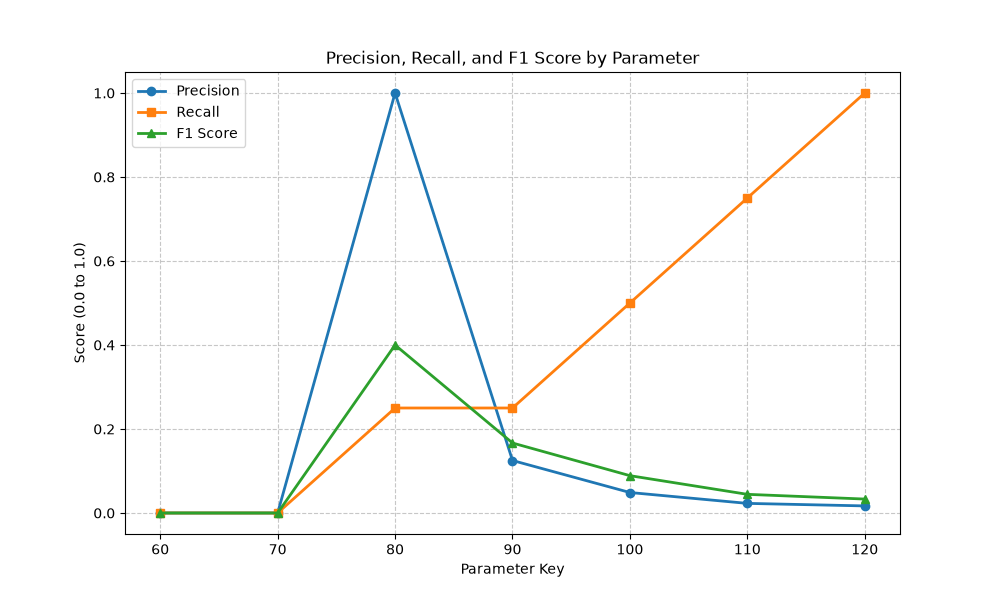
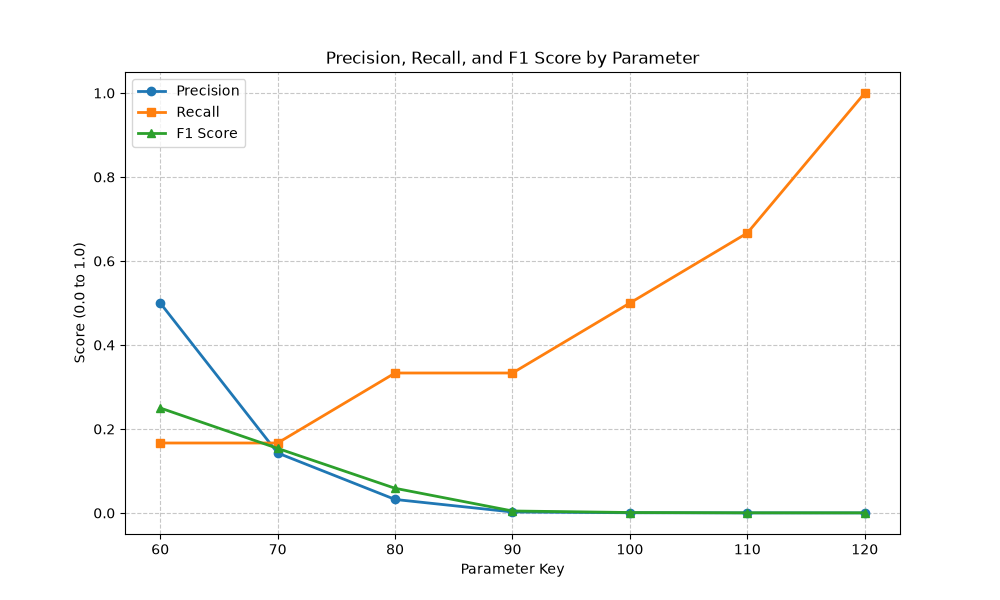
new graphs

diff --git a/filemover.py b/filemover.py
@@ -1,0 +1,41 @@
+import os
+import re
+import shutil
+
+source_dir = "data/full_data"
+dest_dir = "data/full_data_final"
+
+# Create the destination directory if it doesn't exist
+os.makedirs(dest_dir, exist_ok=True)
+
+# Update the regex pattern to match .drawio files
+pattern = re.compile(r"^(\d+)-(\d+)-.*\.drawio$")
+latest_attempts = {}
+
+# Step 1: Find the latest attempt's base name for each user
+for file in os.listdir(source_dir):
+    match = pattern.match(file)
+    if not match:
+        continue
+
+    user_id = match.group(1)
+    attempt = int(match.group(2))
+    
+    # Strip the '.drawio' extension (7 characters) to get the clean base name
+    base_name = file[:-7]
+
+    if user_id not in latest_attempts or attempt > latest_attempts[user_id][0]:
+        latest_attempts[user_id] = (attempt, base_name)
+
+# Step 2: Copy both the .drawio and .png files to the final directory
+for user_id, (attempt, base_name) in latest_attempts.items():
+    # Update the extension list to process .drawio instead of .xml
+    for ext in [".drawio", ".png"]:
+        src_path = os.path.join(source_dir, f"{base_name}{ext}")
+        dest_path = os.path.join(dest_dir, f"{base_name}{ext}")
+        
+        # Verify the file exists before copying to prevent crashes
+        if os.path.exists(src_path):
+            shutil.copy2(src_path, dest_path)
+
+print(f"Successfully transferred {len(latest_attempts)} submission pairs to {dest_dir}")

diff --git a/phash/generate_report.py b/phash/generate_report.py
@@ -70,7 +70,7 @@ def evaluate_threshold(data_path: str, index_file: str, gt_file: str, thresholds
     return results
 
 
-results = evaluate_threshold("data/union", "phash/faiss_index", "data/union/plagiarisms.txt", [x for x in range(60, 121, 10)])
+results = evaluate_threshold("data/full_data_final", "phash/faiss_index", "data/full_data_final/plagiarisms.txt", [x for x in range(60, 121, 10)])
 
 keys = sorted(results.keys())
 
@@ -112,7 +112,15 @@ plt.show()
 
 
 
-print("Using '80' as threshold, identified plagiarisms:")
-plagiarised = find_plagiarised("data/union", "phash/faiss_index", 80)
-for k, v in plagiarised.items():
-    print(f"{k:^15} <---> {v[0]:^15}")
+# print("Using '70' as threshold, identified plagiarisms:")
+# plagiarised = find_plagiarised("data/full_data_final", "phash/faiss_index", 70)
+
+# seen_pairs = set()
+
+# for k, v in plagiarised.items():
+#     for match in v:
+#         pair = tuple(sorted((k, match)))
+        
+#         if pair not in seen_pairs:
+#             seen_pairs.add(pair)
+#             print(f"{pair[0]:^15} <---> {pair[1]:^15}")

diff --git a/vit/generate_report.py b/vit/generate_report.py
@@ -71,7 +71,7 @@ def evaluate_threshold(data_path: str, index_file: str, gt_file: str, thresholds
 
     return results
 
-results = evaluate_threshold("data/union", "vit/faiss_index", "data/union/plagiarisms.txt", np.round(np.arange(0.890, 0.941, 0.005), 3).tolist())
+results = evaluate_threshold("data/full_data_final", "vit/faiss_index", "data/full_data_final/plagiarisms.txt", np.round(np.arange(0.890, 0.941, 0.005), 3).tolist())
 
 keys = sorted(results.keys())
 
@@ -112,7 +112,7 @@ plt.savefig("benchmark_graphs/vit.png")
 plt.show()
 
 
-print("Using '0.925' as threshold, identified plagiarisms:")
-plagiarised = find_plagiarised("data/union", "vit/faiss_index", 0.925)
-for k, v in plagiarised.items():
-    print(f"{k:^15} <---> {v[0]:^15}")
+# print("Using '0.925' as threshold, identified plagiarisms:")
+# plagiarised = find_plagiarised("data/union", "vit/faiss_index", 0.925)
+# for k, v in plagiarised.items():
+#     print(f"{k:^15} <---> {v[0]:^15}")

diff --git a/phash/initiate.py b/phash/initiate.py
@@ -3,7 +3,7 @@ import json
 from PIL import Image
 from utils import *
 
-base_path = "data/union"
+base_path = "data/full_data_final"
 image_folder = os.listdir(base_path)
 image_folder = [x for x in image_folder if x.endswith(".png")]
 index_path = "phash/faiss_index"

diff --git a/vit/initiate.py b/vit/initiate.py
@@ -3,7 +3,7 @@ import json
 from PIL import Image
 from utils import * 
 
-base_path = "data/union"
+base_path = "data/full_data_final"
 image_folder = os.listdir(base_path)
 image_folder = [x for x in image_folder if x.endswith(".png")]
 index_path = "vit/faiss_index"
